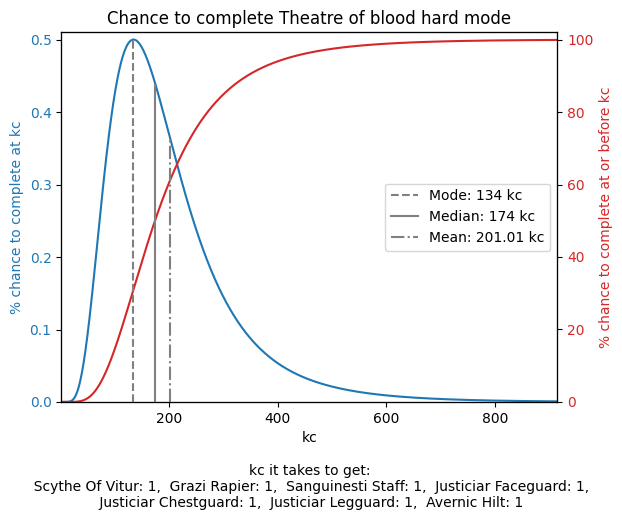
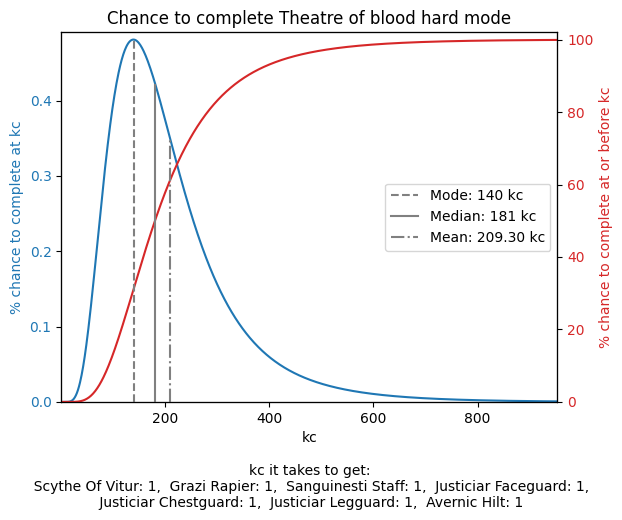
tob hm

diff --git a/bosses.py b/bosses.py
@@ -576,15 +576,18 @@ class theatre_of_blood(monster):
 
 
 class theatre_of_blood_hard_mode(monster):
-    # assumption based on hearsay
-    base_odds = 1/7
+    # https://twitter.com/JagexArcane/status/1485992982906085376
+    base_odds = 13/100
 
-    loot_odds = {"scythe of vitur":1/19, "grazi rapier":2/19,"sanguinesti staff":2/19, "justiciar faceguard":2/19, "justiciar chestguard":2/19, "justiciar legguard":2/19, "avernic hilt":8/19}
+    loot_odds = {"scythe of vitur":1/18, "grazi rapier":2/18,"sanguinesti staff":2/18, "justiciar faceguard":2/18, "justiciar chestguard":2/18, "justiciar legguard":2/18, "avernic hilt":7/18}
+    
+    secondary_odds = {"Sanguine dust":1/275, "Sanguine ornament kit":1/150,"holy ornament kit":1/100}
 
-    loot_amount = {"scythe of vitur":1, "grazi rapier":1,"sanguinesti staff":1, "justiciar faceguard":1, "justiciar chestguard":1, "justiciar legguard":1, "avernic hilt":1}
+    loot_amount = {"scythe of vitur":1, "grazi rapier":1,"sanguinesti staff":1, "justiciar faceguard":1, "justiciar chestguard":1, "justiciar legguard":1, "avernic hilt":1, "Sanguine dust":0, "Sanguine ornament kit":0,"holy ornament kit":0}
 
     def __init__(self, teamsize=1, **kwargs):
         self.loot_odds = self.loot_odds.copy()
+        kwargs["loot_tables"] = [self.secondary_odds]
         for drop in self.loot_odds:
             self.loot_odds[drop] *= (self.base_odds / teamsize)
         super().__init__(**kwargs)
@@ -649,6 +652,10 @@ def optionalBosses():
     tob3man = theatre_of_blood(loot_amount = {"scythe of vitur":1, "grazi rapier":1,"sanguinesti staff":1, "justiciar faceguard":1, "justiciar chestguard":1, "justiciar legguard":1, "avernic hilt":1}, name="Theatre of blood (3 man)", teamsize=3)
     zalcano3tool = zalcano(loot_amount = {"crystal tool seed":3, "zalcano shard":0}, name="Zalcano 3 tool seeds")
 
+    hardMode3man = theatre_of_blood_hard_mode(loot_amount = {"scythe of vitur":1, "grazi rapier":1,"sanguinesti staff":1, "justiciar faceguard":1, "justiciar chestguard":1, "justiciar legguard":1, "avernic hilt":1, "Sanguine dust":0, "Sanguine ornament kit":0,"holy ornament kit":0}, name="Theatre of blood hardmode (3 man)", teamsize=3)
+    hardModeKits = theatre_of_blood_hard_mode(loot_amount = {"scythe of vitur":1, "grazi rapier":1,"sanguinesti staff":1, "justiciar faceguard":1, "justiciar chestguard":1, "justiciar legguard":1, "avernic hilt":1, "Sanguine dust":1, "Sanguine ornament kit":1,"holy ornament kit":1}, name="Theatre of blood hardmode (3 man)", teamsize=3)
+    hardModeJustKits = theatre_of_blood_hard_mode(loot_amount = {"scythe of vitur":0, "grazi rapier":0,"sanguinesti staff":0, "justiciar faceguard":0, "justiciar chestguard":0, "justiciar legguard":0, "avernic hilt":0, "Sanguine dust":1, "Sanguine ornament kit":1,"holy ornament kit":1}, name="Theatre of blood hardmode kits", teamsize=3)
+    hardMode3holy = theatre_of_blood_hard_mode(loot_amount = {"scythe of vitur":0, "grazi rapier":0,"sanguinesti staff":0, "justiciar faceguard":0, "justiciar chestguard":0, "justiciar legguard":0, "avernic hilt":0, "Sanguine dust":1, "Sanguine ornament kit":1,"holy ornament kit":3}, name="Theatre of blood hardmode 3 holy kits", teamsize=3)
 
     return [
         temp,
@@ -664,6 +671,7 @@ def optionalBosses():
         hydra2,
         kq,
         dks,
+        kbd,
         ven,
         ven2,
         ven3,
@@ -682,7 +690,11 @@ def optionalBosses():
         tob3man,
         nex8man,
         zalcano3tool,
-        ce
+        ce,
+        hardMode3man,
+        hardModeKits,
+        hardModeJustKits,
+        hardMode3holy
     ]
 
 def allBosses():
@@ -727,5 +739,6 @@ def allBosses():
         general_graardor(),
         kril_tsutsaroth(),
         kree_arra(),
-        chaos_elemental()
+        chaos_elemental(),
+        theatre_of_blood_hard_mode()
     ]

diff --git a/drop_rolling.py b/drop_rolling.py
@@ -106,7 +106,6 @@ def createCompletionPlot(boss):
 if __name__ == '__main__':
     bosses = []
 
-    
     for i in range(1,6):
         for boss in allBosses() + optionalBosses():
             boss.set_groupsize(i)
